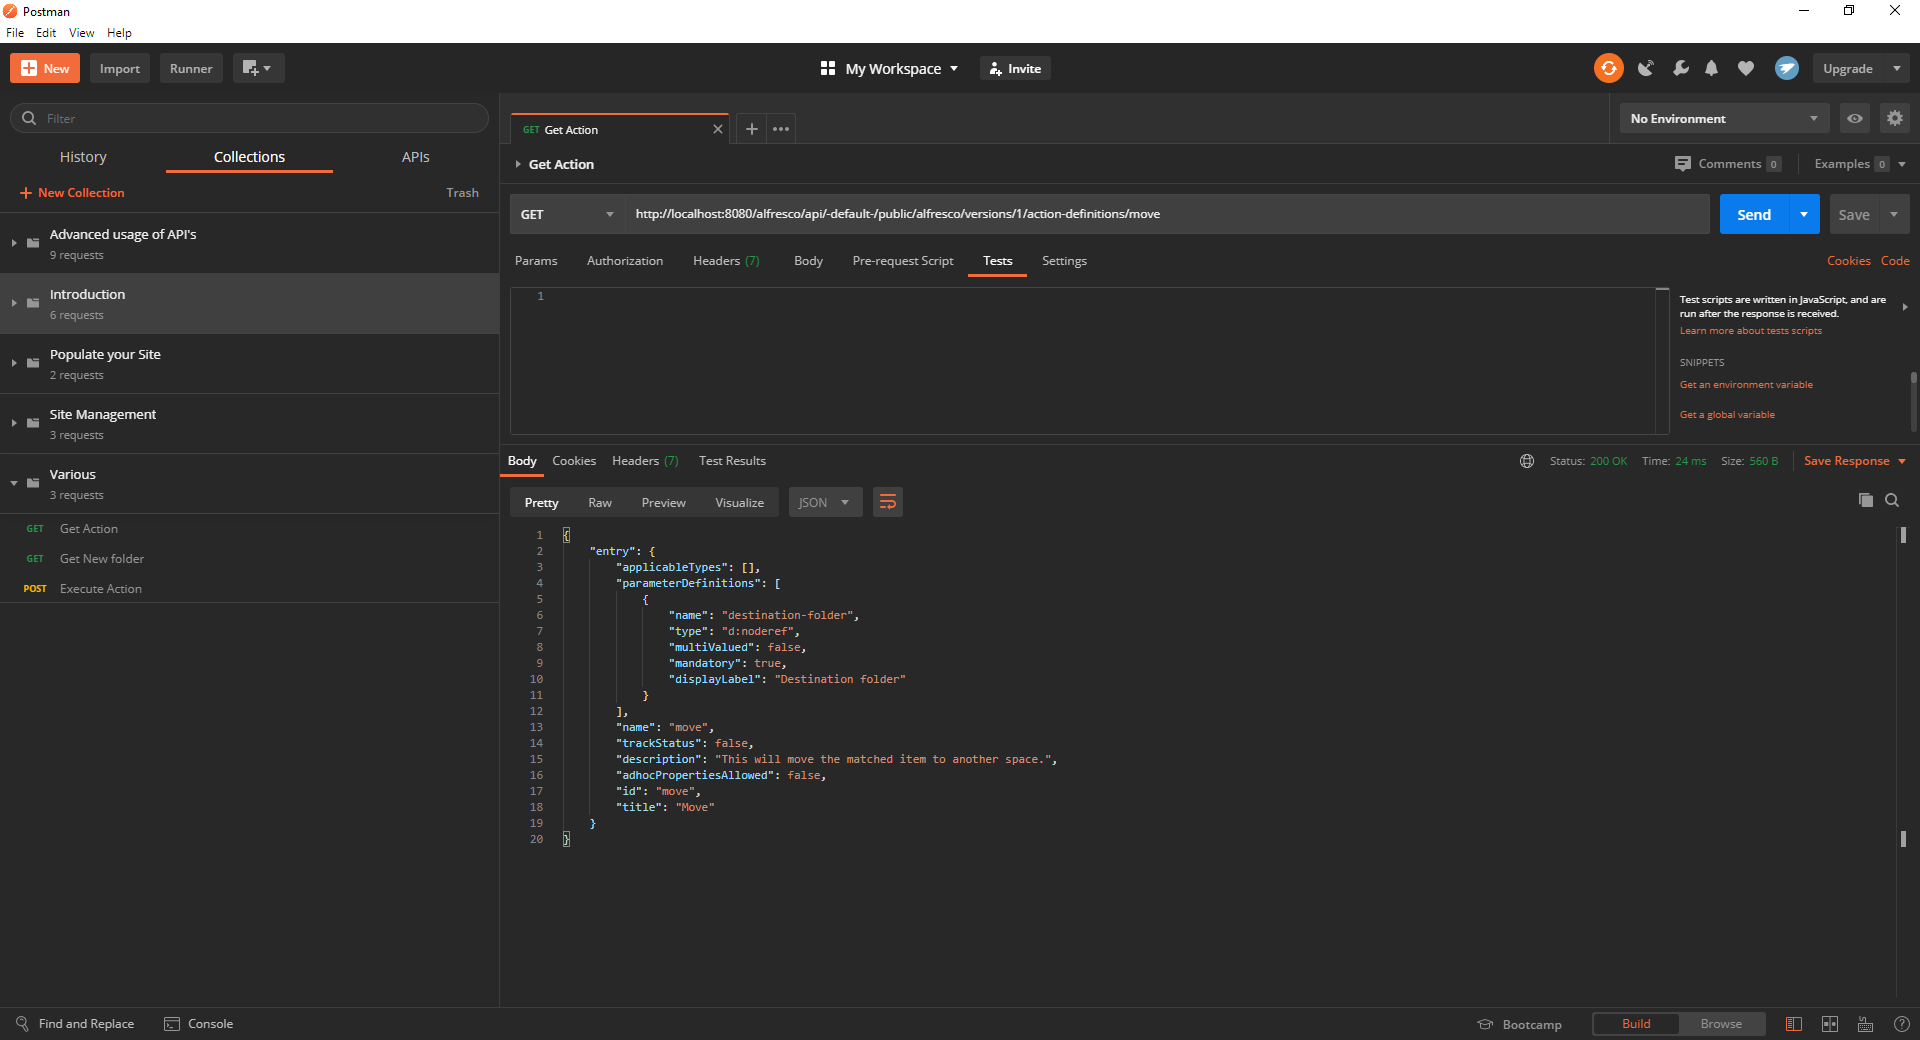
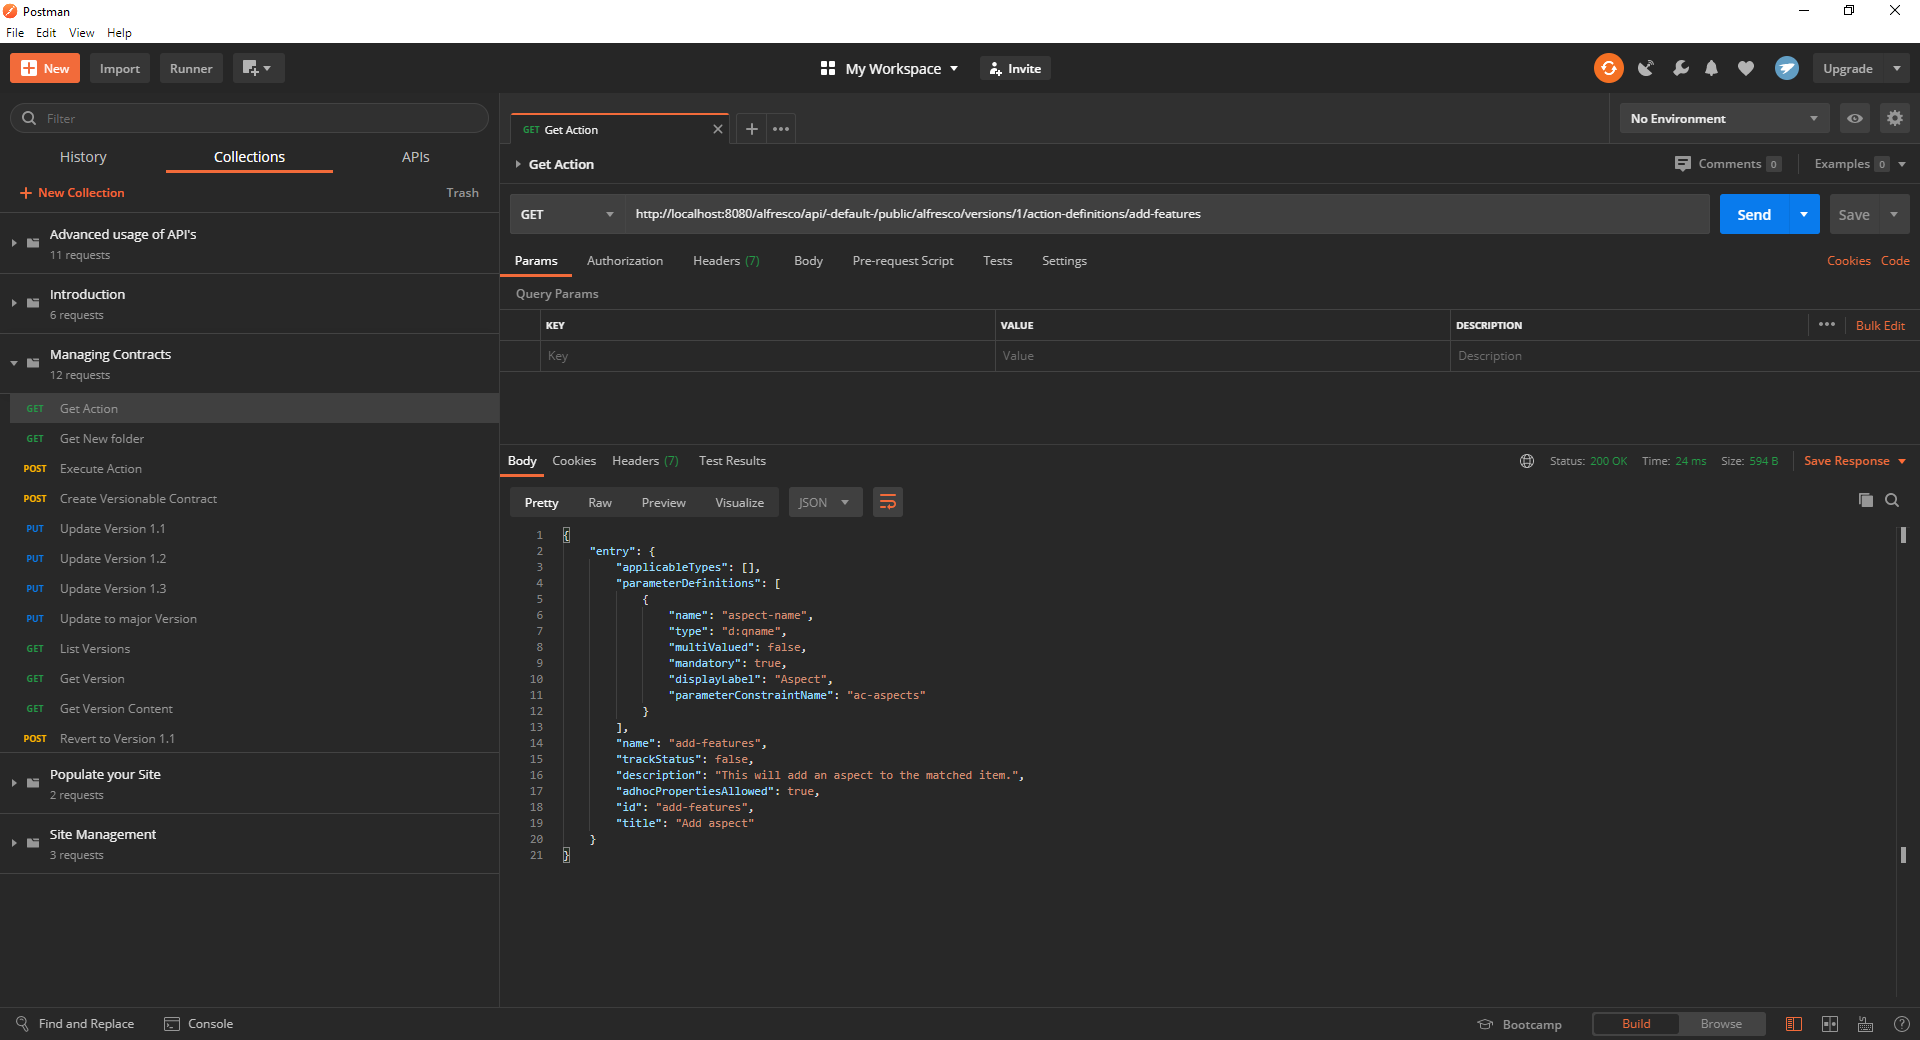
reworked tutorials

diff --git a/docs/api-tutorial/contractManaging.md b/docs/api-tutorial/contractManaging.md
@@ -22,60 +22,43 @@ To have an easier time following this tutorial import this collection of request
 
 
 ## Listing and executing actions
-In the Contract Management series you already used actions to structure your site and move files into appropriate folders according to their status.
-For our next steps to succeed you have to disable the “Move to New” rule you set up on your “Contracts” folder.
-To do so hover over it, select “Manage Rules” then click the “Move to New” rule and select “Edit”. Next tick the box labeled “Disable Rule”.
+In the Contract Management series you already used actions to structure your site and move files into the appropriate folders according to their status.
 
-![disableRule](../images/introduction/disableRule.gif)
+Run the first two requests of the collection, the first one will get the ID of your "Contracts" folder. After that the second request will create a new contract within it.
+If you already completed any of the preceeding tutorials of this series you can leave out the first request as your {folderId} variable is already set.
 
-This is necessary as we want to invoke the “Move” action manually now and the rule you just disabled would have chucked the contract right back into the “New” folder making it impossible to check whether the move worked.
+Now we will use the Alfresco API's to add an aspect to a specific contract.
+You maybe thinking: "But wait, I already did that in the introduction tutorial by updating my contract." and you would be right, but...
+If you wanted to add an aspect to a contract using the /nodes API you would have to list every aspect already assigned to the node plus the one you want to add.
+Otherwise you would just replace the "old" aspects.
+It was a valid route for you to take in the introduction as it was the first aspect you added but if you have a look at the contract you just created you'll see that it already has "cm:versionable" assigned to it.
+More on that aspect later.
 
-But before we move anything let’s have a look at the action first.
-To do that you need to send a send GET request to the action-definitions/{actionId} API, coincidentally the first request of the collection does just that.
+Let's have a look at the action you are about to use.
+To do that you need to send a send GET request to the action-definitions/{actionId} API, coincidentally the third request of the collection does just that.
 The Id-ing of actions is much more intuitive compared to files and folders as they are identical to their name only written in all lowercase letters.
 
 ![actionDef](../images/introduction/actionDef.png)
 
 Okay, let’s go through the action bit by bit: The first part is an array telling you which node types the action is applicable on. If the array is empty, as is the case here, you can apply the action to any type.
-Next we have “parameterDefinitions”, an array, the entries of which are the parameters you have to send if you want to execute this action. Move has only one - “destination-folder” - the name of the parameter is the string you will use to specify it in the body of your execution request. The entry also tells you of which type the parameter has to be and if it is mandatory to define if you want to execute the action. 
+Next we have “parameterDefinitions”, an array, the entries of which are the parameters you have to send if you want to execute this action. "Add-features" has only one - “aspect-name” - the name of the parameter is the string you will use to specify it in the body of your execution request. The entry also tells you which type the parameter has to be of and if it is mandatory to successfully execute the action. 
 
-There are two last things we have to do before we can move contracts around:
-- Save the “New” folder-ID under a variable
-- Create a contract to move 
+Now it's time to add an aspect to your contract, so go ahead and run request #4, which will ping the /action-executions API with the name of the action, the ID of the concerned contract and the name of the aspect you want to add, in this case "ct:employee".
 
- To be able to execute the action we need the ID of the “New” folder where the contract is supposed to go. The second request of the collection does that by submitting a GET request to the queries/nodes API containing the title of the folder we need.
-
-Queries are used to find nodes using a single term or phrase, which can either be specified in the “Params” tab of Postman or in the URL itself.
-
-![query](../images/introduction/query.png)
-
-In the “Test” tab Postman grabs the first entry of the returned list and saves it under the “newFolderId” variable for you to use in the next request.
-
-And lastly use the “Create Contract” request from the first tutorial and name the contract “moveTest.txt”. Because you disabled the “Move to New” rule the file will remain outside the subfolders of “Contracts” for you to be moved to “New”.
-Should {folderId} be undefined, execute the first request to assign the ID of the “Contracts” folder to it.
-Make sure that your contract really didn’t enter the “New” folder, before continuing.
-
-You are finally ready to move a contract now, just execute the third request, which will ping the /action-executions API with the name of the action, the ID of the contract that is supposed to be moved and the ID of the destination folder.
-But since the type of “destination-folder” was “d:noderef” the folder ID alone doesn’t suffice.
-It also needs the path to said folder.
-
-![moveAction](../images/introduction/moveAction.png)
+![addFeatureAction](../images/introduction/addFeatureAction.png)
 
 In the response body you can see the unique ID of the action you have just performed. 
+
+Lastly let's name the employee the contract concerns by updating it with the fifth request.
+This is important for a later step in this tutorial.
 
 
 ## Versioning
 
 Next up versioning can be very useful if you want to be able to revert to a previous state of a contract, be it because a certain clause was tossed or a party withdrew.
 
-Let’s start by creating a versionable contract by using the request with the same name from the collection.
-It works very similar to the “Create Contract” request from the first tutorial, only this time you are telling ACS to add the aspect “cm:versionable” to it as well.
-
+Lucky you've already created a versionable contract in the last step.
 If you are making a contract versionable the property called “auto-version” is automatically turned on, which means that every time you update your contract there will be a minor version update as well, turning the version from i.e. 1.0 to 1.1.
-
-![createVersionableContractRequest](../images/introduction/createVersionableContractRequest.png)
-
-![createVersionableContractResponse](../images/introduction/createVersionableContractResponse.png)
 
 Let’s create a few versions of your new contract. You can do so by executing requests 5 through 7 manually one by one or use the Postman “Runner”.
 
@@ -84,7 +67,9 @@ After that click “Run Managing Contracts” and you have three new versions of
 
 ![runRunner](../images/introduction/runRunner.gif)
 
-Now that you have 3 minor version updates let’s add a major one as well. For that use the ninth request which is very similar to the previous three with the exception of the “majorVersion” parameter in the URL and “Params” tab.
+Now that you have 3 minor version updates let’s add a major one as well. For that use the eighth request which is very similar to the previous three with the exception of the “majorVersion” parameter in the URL and “Params” tab.
+
+![majorVersionParam](../images/introduction/majorVersionParam.png)
 
 ![majorVersionResponse](../images/introduction/majorVersionResponse.png)
 
@@ -107,6 +92,21 @@ Although you are reverting to a previous version, the request will be handled as
 In the body of this request you can determine whether this should be regarded as a major or minor version update with the boolean property “majorVersion”.
 
 ![revertVersion](../images/introduction/revertVersion.png)
+
+
+## Searching Contracts
+
+Lastly let’s take a look at the search API of Alfresco, it has loads of customizable aspects to make the search for content as various as possible, but we will only cover the very basics here. If you want to know more about the search API, click [here](https://api-explorer.alfresco.com/api-explorer/#!/search/search).
+
+The “Search for Employee Contract” request will return the contract you created earlier as it looks for every node having the type “ct:contract” and narrowing it further down to the name of the employee it concerns.
+Also it will cut certain fields from the response body so that only the ID, name and node type of the contract are left as well as its properties.
+As id, name and node type are already included in the response body of a search request they can be put into the “fields” field, which chucks everything from the response except for the elements contained within it.
+Properties on the other hand are not returned by default so we have to tell ACS to send them along with the “include” field.
+It is very important to note that while you are GETting a specific node (or list of nodes if your search parameters are broader) the request you send is of the type POST.
+
+![searchContractRequest](../images/introduction/searchContractRequest.png)
+
+![searchContractResponse](../images/introduction/searchContractResponse.png)
 
 
 ## Summary

diff --git a/docs/api-tutorial/introduction.md b/docs/api-tutorial/introduction.md
@@ -17,7 +17,7 @@ A quick word on Postman if you never used it before: It basically builds a reque
 So you only need to worry about three things: 
 - What kind of request do you want to send
 - Where do you want to send it
-- What it contains (i.e. files, properties, parameters)
+- What does it contain (i.e. files, properties, parameters)
 
 Everything else will be taken care of by Postman.
 
@@ -27,6 +27,19 @@ Also you will need this collection of pre-made requests to spare you from creati
 
 
 While this introduction will explain all the parts of these requests, feel free to experiment with them and get a feel of what happens when you change certain parameters. 
+
+
+## What is an API
+You can picture an API (Application Programming Interface) as the middleman between the client software - in this case Postman - and the provider - here ACS.
+It takes the request of the client and translates it so the provider knows what to do, then relays the answer of the provider back to the client.
+
+The way Alfresco API URL’s are built is very straightforward: They all use the same root (http://address:andPortOfYourAcsInstance/alfresco/api/-default-//public/alfresco/versions/1/).
+From here on in it works its way down from the top- level, like nodes, people or sites, over the instance- id to the property of the instance you want to edit or view. 
+
+So if you wanted to GET every child of a folder, you’d call:  
+/nodes/{folderId}/children
+
+ACS provides API’s for a lot of operations, if you want to get an overview and familiarize yourself with the URL structure click [here](https://api-explorer.alfresco.com/api-explorer/#/).
   
 
 ## Requests
@@ -50,29 +63,20 @@ And finally the DELETE request does pretty much what you’d expect: It deletes 
 Note that the Postman collection uses the Administrator credentials to execute all operations so it won’t be hindered by the permission restrictions that might have been set up in the Contract Management series.
 
 
-## What is an API
-You can picture an API (Application Programming Interface) as the middleman between the client software - in this case Postman - and the provider - here ACS.
-It takes the request of the client and translates it so the provider knows what to do, then relays the answer of the provider back to the client.
-
-The way Alfresco API URL’s are built is very straightforward: They all use the same root (http://address:andPortOfYourAcsInstance/alfresco/api/-default-//public/alfresco/versions/1/).
-From here on in it works its way down from the top- level, like nodes, people or sites, over the instance- id to the property of the instance you want to edit or view. 
-
-So if you wanted to GET every child of a folder, you’d call:  
-/nodes/{folderId}/children
-
-ACS provides API’s for a lot of operations, if you want to get an overview and familiarize yourself with the URL structure click [here](https://api-explorer.alfresco.com/api-explorer/#/).
-
-
 ## Creating a contract
 If you finished our [Contract Management](https://www.alfresco.com/abn/tutorials/contract-management/) series you will already have created a site called “myInc” and a “Contracts” folder within it.
 Now let’s tell ACS to create another contract inside it.
 To do so you need to give the Alfresco API the appropriate node ID so it knows where the newly created content is supposed to go. 
-To get the ID of the Contracts folder use the first command of the collection.The basic API /nodes/-root-/children (1) will return every child node of your root directory. The “relativePath” parameter (2) will shift that directory to the “Document Library” of your site.
-Now that you have the Contracts- folder, the Test- section of the request is going to drill down to the id property of it and assign it to a global variable to be used later on.
+To get the ID of the Contracts folder use the first command of the collection.The basic API /nodes/-root-/children (1) will return every child node of your root directory. The “relativePath” parameter (2) will shift that directory to the “Contracts” folder of your site.
+And lastly "includeSource"(3) will list the parent folder, "Contracts", in the response.
+Actually the "source" part is all we need, as the line in the "Test"(4) tab will grab it's ID and assign it to a global variable called "folderId".
 
 ![getIdTest](../images/introduction/getIdTest.png)
 
-If everything went well the response body(3) should look like this:
+![getFolderIdBody](../images/introduction/getFolderIdBody.png)
+
+For the sake of brevity the entry- segment, which contains the children of the "Contracts" folder, is collapsed here.
+The important part of the respnose is the source aka the parent folder(5):
 
 ![getFolderId](../images/introduction/getFolderId.png)
 
@@ -90,7 +94,7 @@ If not you can check whether the collection indeed uses admin/admin by clicking 
 After retrieving and saving the ID of the Contracts- folder you can now create a new Contract within it.
 For that use the second request of the collection.
 Here Postman will send a POST(1) request to the /nodes API using the id variable(2) you created in the last request. In the request body(3) there will only be a name and the type you want your file to have (ct:contract)(4). Note that the body is written in JSON(5).
-If you wanted to create a more generic document you could use cm:content or cm:folder if you want to create a folder.
+If you wanted to create a more generic document you could use cm:content or cm:folder to create a folder.
 In the test section we will again create a variable for the contract, so we can use it in the next chapters.
 
 ![createContractBody](../images/introduction/createContractBody.png)
@@ -116,6 +120,9 @@ Now let’s check if everything worked as it should have! Log into Share as Admi
 If everything has gone to plan there should be the contract you just created or uploaded.
 
 ![newContract](../images/introduction/newContract.png)
+
+If you want to view your contract at any point use the fourth request which will return the node belonging to the ID the {contractId} is currently assigned to.
+The response body will look exactly as the one above with the notable difference that you didn't first create the contract but merely called for an existing one.
 
 
 ## Update a contract

diff --git a/docs/api-tutorial/advancedOperations.md b/docs/api-tutorial/advancedOperations.md
@@ -9,11 +9,9 @@ In order to continue you will need [Postman](https://www.postman.com/downloads/)
 
 [![Run in Postman](https://run.pstmn.io/button.svg)](https://www.getpostman.com/run-collection/9accb86d21e8ab18e43e)
 
-This tutorial is a continuation of the Introduction to working with Alfresco API’s, if you are unfamiliar with our API’s make sure to check it out. 
+This tutorial is a continuation of the Introduction to working with Alfresco API’s, if you are unfamiliar with the Alfresco API’s make sure to check it out. 
 
-If you are already familiar with the basics the completion of the first tutorial is not strictly necessary. However, we will be reusing some of the requests from the last collection, so be sure to download it.
-
-[![Run in Postman](https://run.pstmn.io/button.svg)](https://www.getpostman.com/run-collection/bfc6b4dd5f3ec21ddb8d)
+If you are already familiar with the basics the completion of the first tutorial is not strictly necessary. However, certain requests of this collection will not be explained in detail as they were already discussed in the previous guide.
 
 The completion of the [Contract- Management](https://www.alfresco.com/abn/tutorials/contract-management/) series on the other hand is a requirement for you to continue.
 
@@ -27,11 +25,12 @@ At the end of this guide you will know how to:
 ## Adding content to your contracts
 
 In the last tutorial you learned how to create an empty contract, so let’s try to fill it with some content this time. 
-Since you deleted every contract the last time you will need to create another one with the second request from the last collection.
-By executing it you will set the global variable “contractId” to the ID of your created file.
+Run the first two requests of the collection, the first one will get the ID of your "Contracts" folder. After that the second request will create a new contract within it.
+If you already completed the first tutorial of this series you can leave out the first request as your {folderId} variable is already set.
+
 Now that everything is set up for the first request of this tutorial use it to add content to your contract. The body of this request simply consists of a string which will be inserted into your file.
 
-![addComment](../images/introduction/addContent.png)
+![addContent](../images/introduction/addContent.png)
 
 Now you can view the content of your contract using postman by executing the second request. This is a simple GET request sent to the /nodes/{contractId}/content API.
 
@@ -62,7 +61,7 @@ The next operation we will cover is commenting, which you can do by executing th
 It will ping the /node/{contractId}/comments API with a simple string “content” which contains whatever you want to comment. Again we will create a variable in the “Test” tab, naming it “commentId” this time.
  The response body will be containing the the node you just created:
 
-![uploadContract](../images/introduction/uploadComment.png)
+![uploadComment](../images/introduction/uploadComment.png)
 
 You can also edit your comment by using the next request which will send a put request with your new comment to the /nodes/{contractId}/comments/{commentId} API.
 The response will look similar to the last one except it will contain the updated content of your comment this time around:
@@ -97,27 +96,6 @@ You’ll get an empty “entries” array like so:
 
 ![emptyCommentList](../images/introduction/emptyCommentList.png)
 
-
-## Searching Contracts
-
-Lastly let’s take a look at the search API of Alfresco, it has loads of customizable aspects to make the search for content as various as possible, but we will only cover the very basics here. If you want to know more about the search API, click [here](https://api-explorer.alfresco.com/api-explorer/#!/search/search).
-
-Let’s create another sample contract to work with. This one will concern a fictional employee of myInc, called John Doe.
-We establish this connection by adding the “Employee” aspect to our contract and assigning “John Doe” to  “ct:employeeName” with the “Create Employee Contract” request.
-
-![createEmployeeContractRequest](../images/introduction/createEmployeeContractRequest.png)
-
-![createEmployeeContractsResponse](../images/introduction/createEmployeeResponse.png)
-
-The “Search for Employee Contract” request will return your newly created contract as it looks for every node having the type “ct:contract” and narrowing it further down to the name of the employee it concerns.
-Also it will cut certain fields from the response body so that only the ID, name and node type of the contract are left as well as its properties.
-As id, name and node type are already included in the response body of a search request they can be put into the “fields” field, which chucks everything from the response except for the elements contained within it.
-Properties on the other hand are not returned by default so we have to tell ACS to send them along with the “include” field.
-It is very important to note that while you are GETting a specific node (or list of nodes if your search parameters are broader) the request you send is of the type POST.
-
-![searchContractRequest](../images/introduction/searchContractRequest.png)
-
-![searchContractResponse](../images/introduction/searchContractResponse.png)
 
 ## Summary
 
